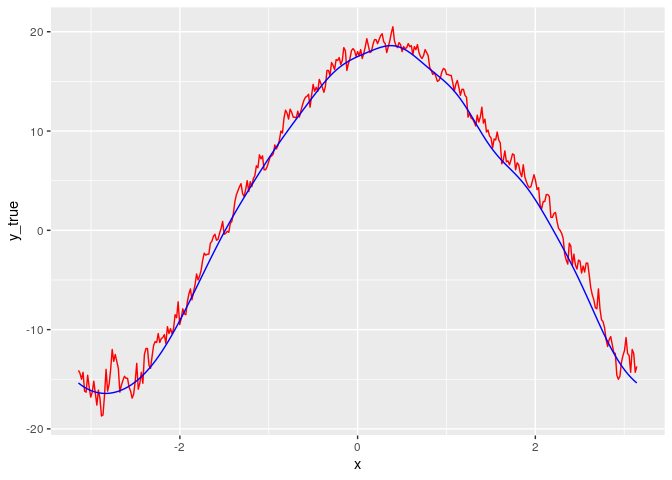
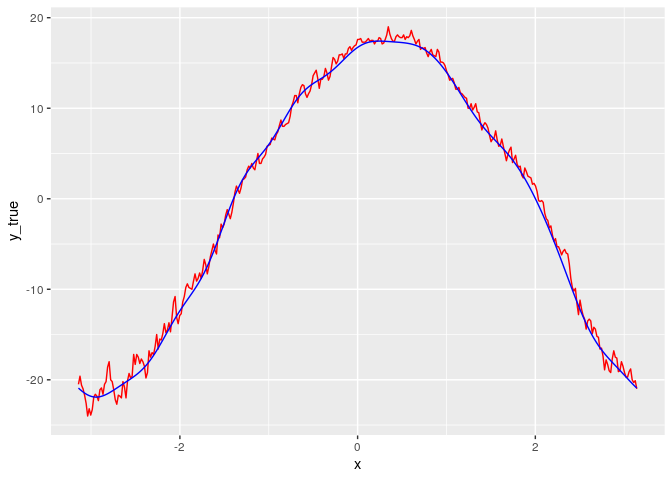
fixing the read.md file

diff --git a/README.md b/README.md
@@ -25,20 +25,13 @@ devtools::install_github("gilberto-sassi/geoFKF")
 This is a basic example which shows you how to solve a common problem:
 
 ``` r
-library(tidyverse)
-#> ── Attaching packages ──────────────────────────────────────────────────── tidyverse 1.3.0 ──
-#> ✓ ggplot2 3.3.2     ✓ purrr   0.3.4
-#> ✓ tibble  3.0.4     ✓ dplyr   1.0.2
-#> ✓ tidyr   1.1.2     ✓ stringr 1.4.0
-#> ✓ readr   1.4.0     ✓ forcats 0.5.0
-#> ── Conflicts ─────────────────────────────────────────────────────── tidyverse_conflicts() ──
-#> x dplyr::filter() masks stats::filter()
-#> x dplyr::lag()    masks stats::lag()
+library(ggplot2)
+library(geoFKF)
 data("datasetCanada")
 
 m_data <- as.matrix(datasetCanada$m_data)
 m_coord <- as.matrix(datasetCanada$m_coord[, 1:2])
-pos <- 8
+pos <- 18
 log_pos <- !(seq_len(nrow(m_coord)) %in% pos)
 new_loc <- m_coord[pos, ]
 m_coord <- m_coord[log_pos, ]
@@ -47,11 +40,11 @@ m_data <- m_data[, log_pos]
 
 x <- seq(from = -pi, to = pi, length.out = length(y_true))
 
-fit <- geoFKF::geo_fkf(m_data, m_coord, new_loc, t = x)
+fit <- geo_fkf(m_data, m_coord, new_loc, t = x)
 
-dados <- tibble(x , y_true, y_est = fit$estimates)
+df <- data.frame(x , y_true, y_est = fit$estimates)
 
-ggplot(dados) +
+ggplot(df) +
   geom_line(aes(x, y_true), color = "red") +
   geom_line(aes(x, y_est), color = "blue")
 ```
